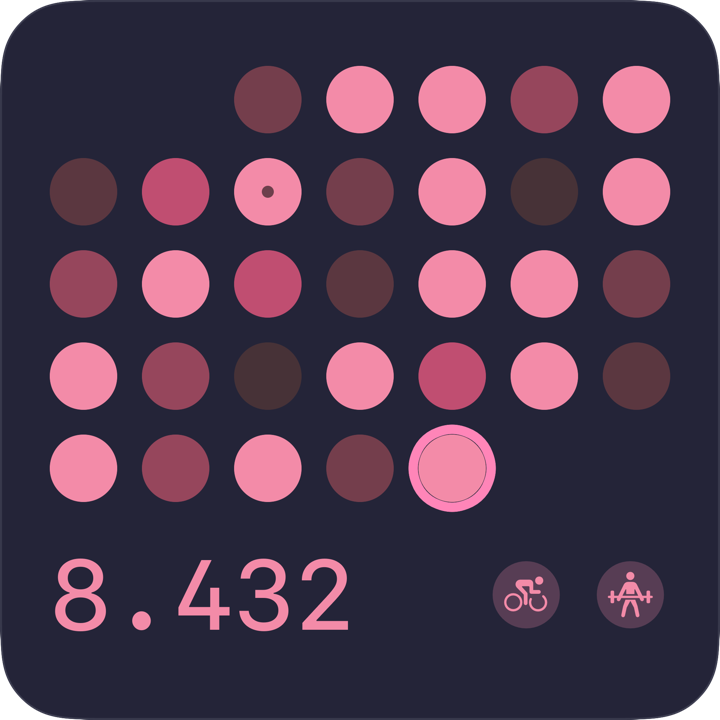
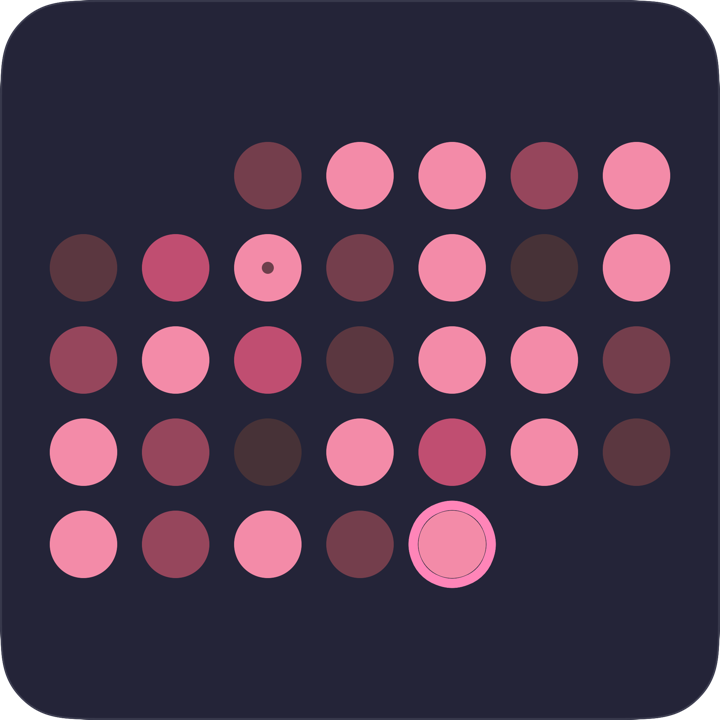
Streamline project page features

diff --git a/Steps/FeatureShots.swift b/Steps/FeatureShots.swift
@@ -100,8 +100,7 @@ private enum FeatureSample {
 
 struct FeatureGridSquare: View {
     /// Rows the current month spans (mirrors StepsGridView's MonthLayout), so the
-    /// grid frame can be sized to hug exactly those rows — no vertical slack below
-    /// the last row before the count row.
+    /// grid frame can be sized to hug exactly those rows inside the square tile.
     private static var monthRows: Int {
         let cal = Calendar.current
         guard let interval = cal.dateInterval(of: .month, for: FeatureSample.referenceDay),
@@ -120,34 +119,13 @@ struct FeatureGridSquare: View {
         return cell * rows + w * 0.04 * (rows - 1) // rows + inter-row gaps
     }
 
-    /// Today's activity badges — a couple, to keep the tile calm.
-    private let activities: [DayActivity] = [.cycling, .strength]
-
     var body: some View {
         FeatureTile(padding: 44) {
-            VStack(spacing: 30) {
-                // The month grid as circular cells — the widget shown big, calm.
-                StepsGridView(dailySteps: FeatureSample.denseMonth,
-                              style: FeaturePalette.grid,
-                              referenceDate: FeatureSample.referenceDay)
-                    .frame(maxWidth: .infinity)
-                    .frame(height: Self.gridHeight)
-                // Today's count with a couple of activity badges — like the widget.
-                HStack(spacing: 22) {
-                    Text(8_432, format: .number)
-                        .font(.system(size: 88, weight: .medium, design: .monospaced))
-                        .foregroundStyle(FeaturePalette.rose)
-                        .minimumScaleFactor(0.5)
-                        .lineLimit(1)
-                    Spacer(minLength: 12)
-                    ForEach(activities) { activity in
-                        Image(systemName: activity.symbol)
-                            .font(.system(size: 60))
-                            .symbolRenderingMode(.hierarchical)
-                            .foregroundStyle(FeaturePalette.rose)
-                    }
-                }
-            }
+            StepsGridView(dailySteps: FeatureSample.denseMonth,
+                          style: FeaturePalette.grid,
+                          referenceDate: FeatureSample.referenceDay)
+                .frame(maxWidth: .infinity)
+                .frame(height: Self.gridHeight)
         }
     }
 }

diff --git a/docs/blog/index.html b/docs/blog/index.html
@@ -34,8 +34,6 @@
     <h1>Steps</h1>
     <p class="tagline">Personal step counting that also tells you where to walk to reach 10,000.</p>
     <p class="short">A small iOS app, widgets, and a watchOS app — all reading Apple Health to paint your month.</p>
-    <p class="short">Each day fills by how close you got to 10,000 steps, the way a contribution graph reads a year of commits. Pick a palette to match your home screen.</p>
-    <p class="short">Fall short? Steps points you to a real walk that closes the gap.</p>
     <p class="hero-cta">
       <a class="action-link" href="https://github.com/berndpl/Steps">Download and Build</a>
       <a class="action-link secondary" href="https://notes.plontsch.de/about/">Get in touch</a>
@@ -49,29 +47,28 @@
 </header>
 
 <section id="features">
-  <h2>Features</h2>
   <div class="feature-grid">
     <article class="feature-card">
-      <img class="feature-shot" src="img/feature-grid.png" alt="The month as a rose contribution grid, each day a cell, the best day ringed" width="720" height="720" loading="lazy">
-      <h3>Your widget</h3>
-      <p>Twelve palettes, tunable curves, and day shapes — the grid, painted your way.</p>
+      <img class="feature-shot" src="img/feature-walk.png" alt="A round-trip walk suggestion to a real place, with its step and distance cost" width="720" height="720" loading="lazy">
+      <h3>Suggested walk</h3>
+      <p>Short of 10,000? A real round trip closes the gap, flown in 3D.</p>
     </article>
     <article class="feature-card">
       <img class="feature-shot" src="img/feature-activities.png" alt="Today's step count with cycling, strength, and mindful badges beneath" width="720" height="720" loading="lazy">
-      <h3>More than steps</h3>
+      <h3>Badges</h3>
       <p>Rides, strength, and mindful minutes each add a badge by the day's count.</p>
     </article>
     <article class="feature-card">
-      <img class="feature-shot" src="img/feature-walk.png" alt="A round-trip walk suggestion to a real place, with its step and distance cost" width="720" height="720" loading="lazy">
-      <h3>Reach your goal</h3>
-      <p>Short of 10,000? A real round trip closes the gap, flown in 3D.</p>
+      <img class="feature-shot" src="img/feature-grid.png" alt="The month as a rose contribution grid, each day a cell, the best day ringed" width="720" height="720" loading="lazy">
+      <h3>Colors</h3>
+      <p>Twelve palettes, tunable curves, and day shapes — the grid, painted your way.</p>
     </article>
     <article class="feature-card">
       <figure class="feature-shot watch-stack" aria-label="Steps watchOS screens — tap a watch to bring it to the front">
         <div class="watch is-front"><img src="img/watch-app.png" alt="Steps watch app: the month grid with today's step count and cycling and strength badges" width="416" height="496" loading="lazy"></div>
         <div class="watch is-back"><img src="img/watch-history.png" alt="Watch location history: a round-trip walk suggestion above your recent places" width="416" height="496" loading="lazy"></div>
       </figure>
-      <h3>On your wrist</h3>
+      <h3>Watch</h3>
       <p>Grid, count, and badges on watchOS — places a tap from Maps directions.</p>
     </article>
   </div>